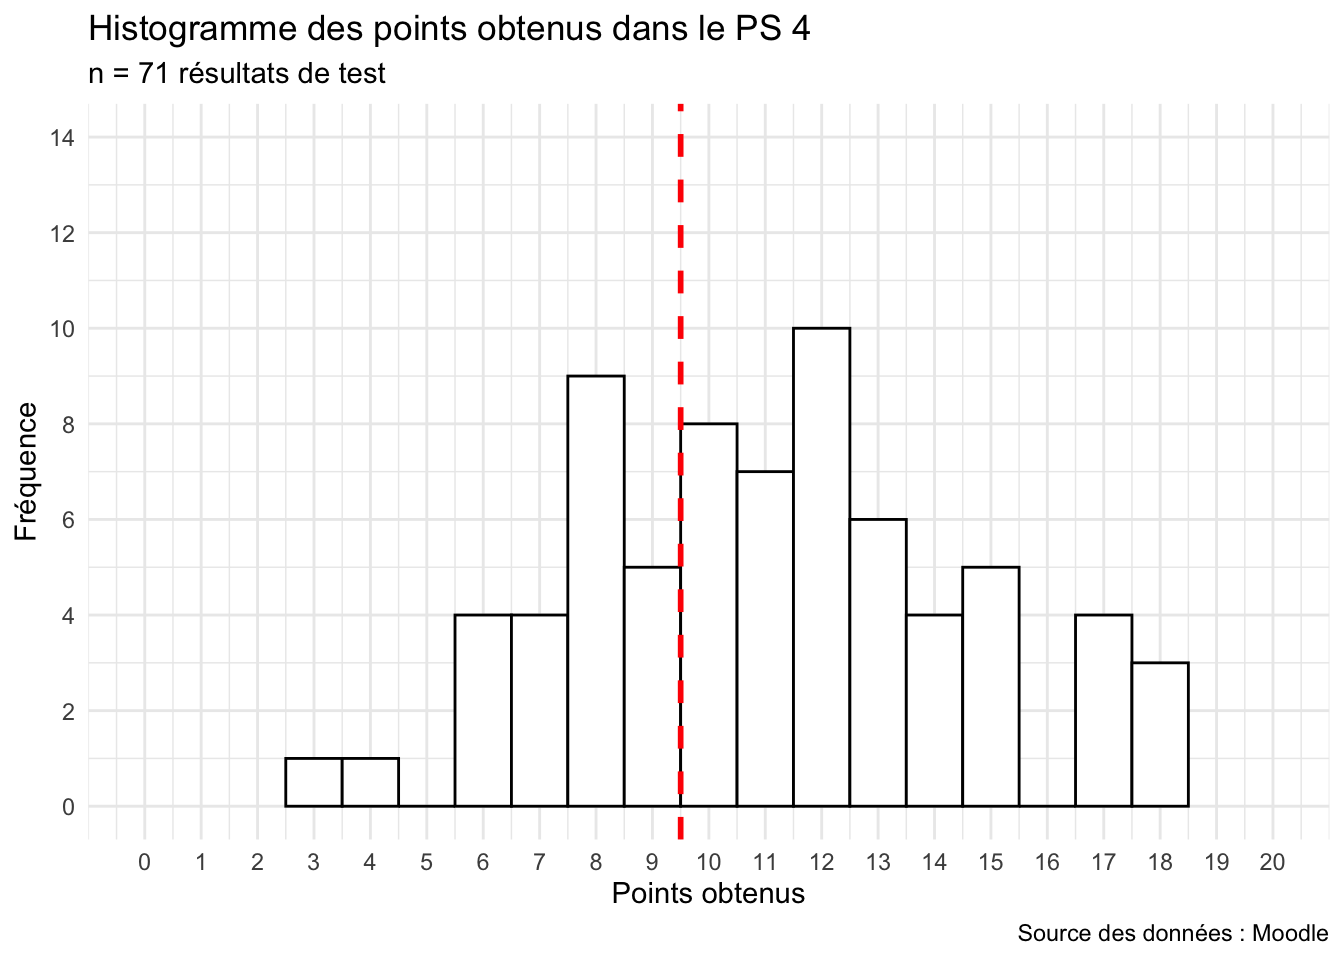
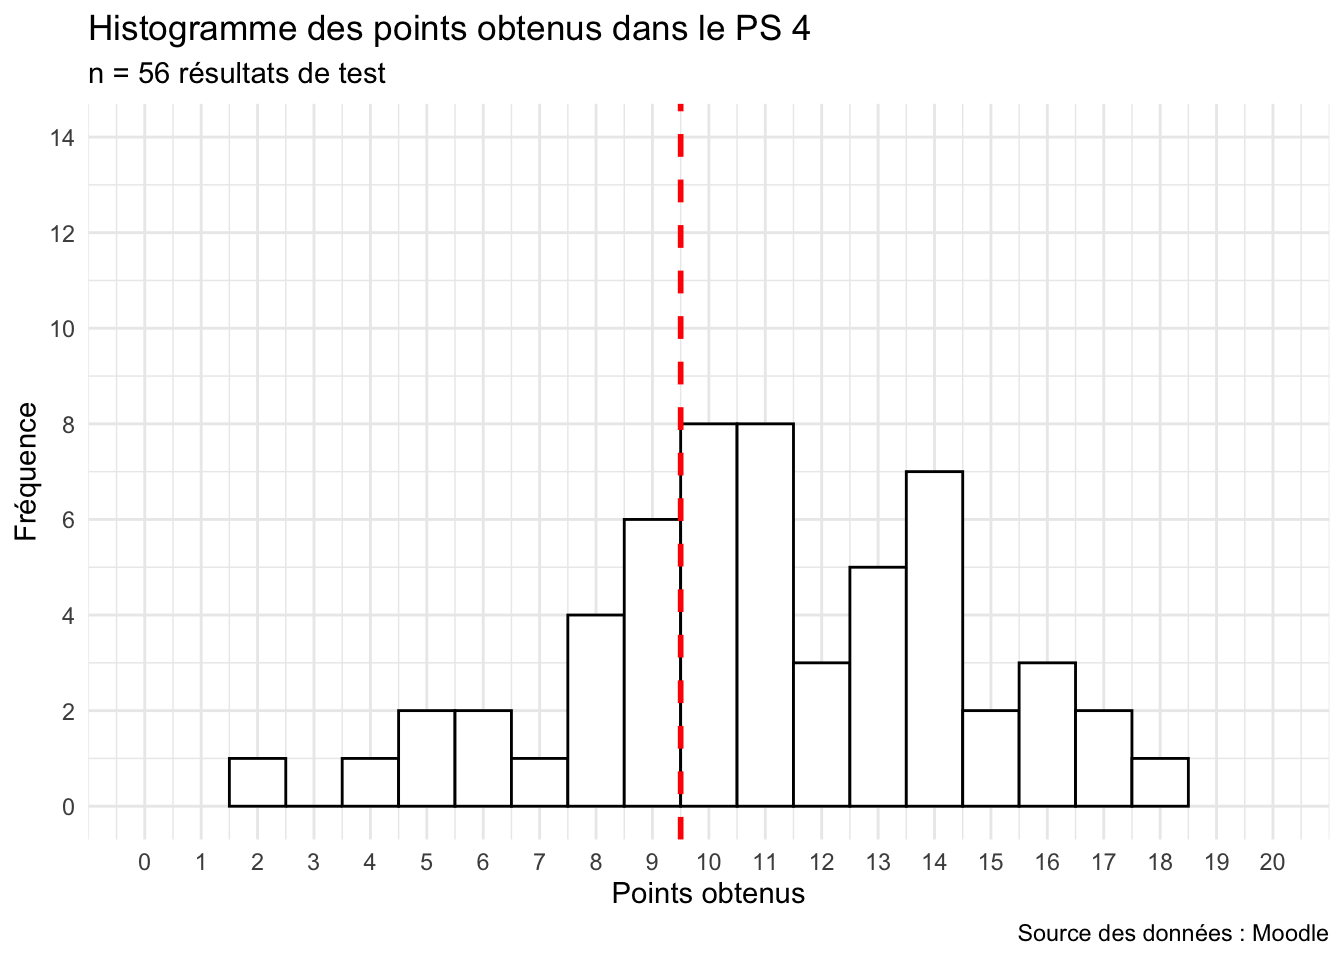
update 28 mai v1

diff --git a/index.html b/index.html
@@ -4662,7 +4662,7 @@ F-statistic: 52.75 on 3 and 28 DF,  p-value: 0.0000000000121</code></pre>
 </section>
 <section id="session-13-problem-set-4" class="level1">
 <h1>Session 13 (Problem Set 4)</h1>
-<p>Les résultats du <strong>Problem Set 4</strong> (bonnes réponses, échelle des notes) sont accéssibles sur la page Moodle de l’exercice.</p>
+<p>Les résultats du <strong>Problem Set 4</strong> (bonnes réponses, échelle des notes) du SP 2025 sont accéssibles sur la page Moodle de l’exercice.</p>
 <div class="callout callout-style-default callout-important callout-titled" title="Important">
 <div class="callout-header d-flex align-content-center">
 <div class="callout-icon-container">
@@ -4676,11 +4676,11 @@ Important
 <p><strong>Spécificité du Problem Set 4</strong> : les étudiant-e-s qui ont répondu dans les temps au questionnaire sur l’utilisation des médias se voient attribuer 2 points bonus supplémentaires à leur score dans le Problem Set 4. Ces 2 points bonus, obtenus par une majorité d’étudiant-e-s, sont pris en compte pour le calcul final de la note du cours (ils ne sont toutefois pas comptabilisés dans l’histogramme ci-dessous).</p>
 </div>
 </div>
-<p>Voici l’histogramme des points obtenus par n = 71 étudiant-e-s qui ont participé au Problem Set 4.</p>
+<p>Voici l’histogramme des points obtenus par n = 56 étudiant-e-s qui ont participé au Problem Set 4 le 22 et 28 mai 2025 dans trois groupes (A, B et C).</p>
 <ul>
 <li><p>Le nombre maximal de points était de 20, il fallait 10 pour passer le test.</p></li>
-<li><p>La moyenne des points obtenus était de 11.</p></li>
-<li><p>47 étudiant-e-s (66%) ont réussi Problem Set 4.</p></li>
+<li><p>La moyenne des points obtenus était de 11. (note = 4.25).</p></li>
+<li><p>39 étudiant-e-s (69.6%) ont réussi Problem Set 4.</p></li>
 </ul>
 <div class="cell">
 <div class="cell-output-display">
